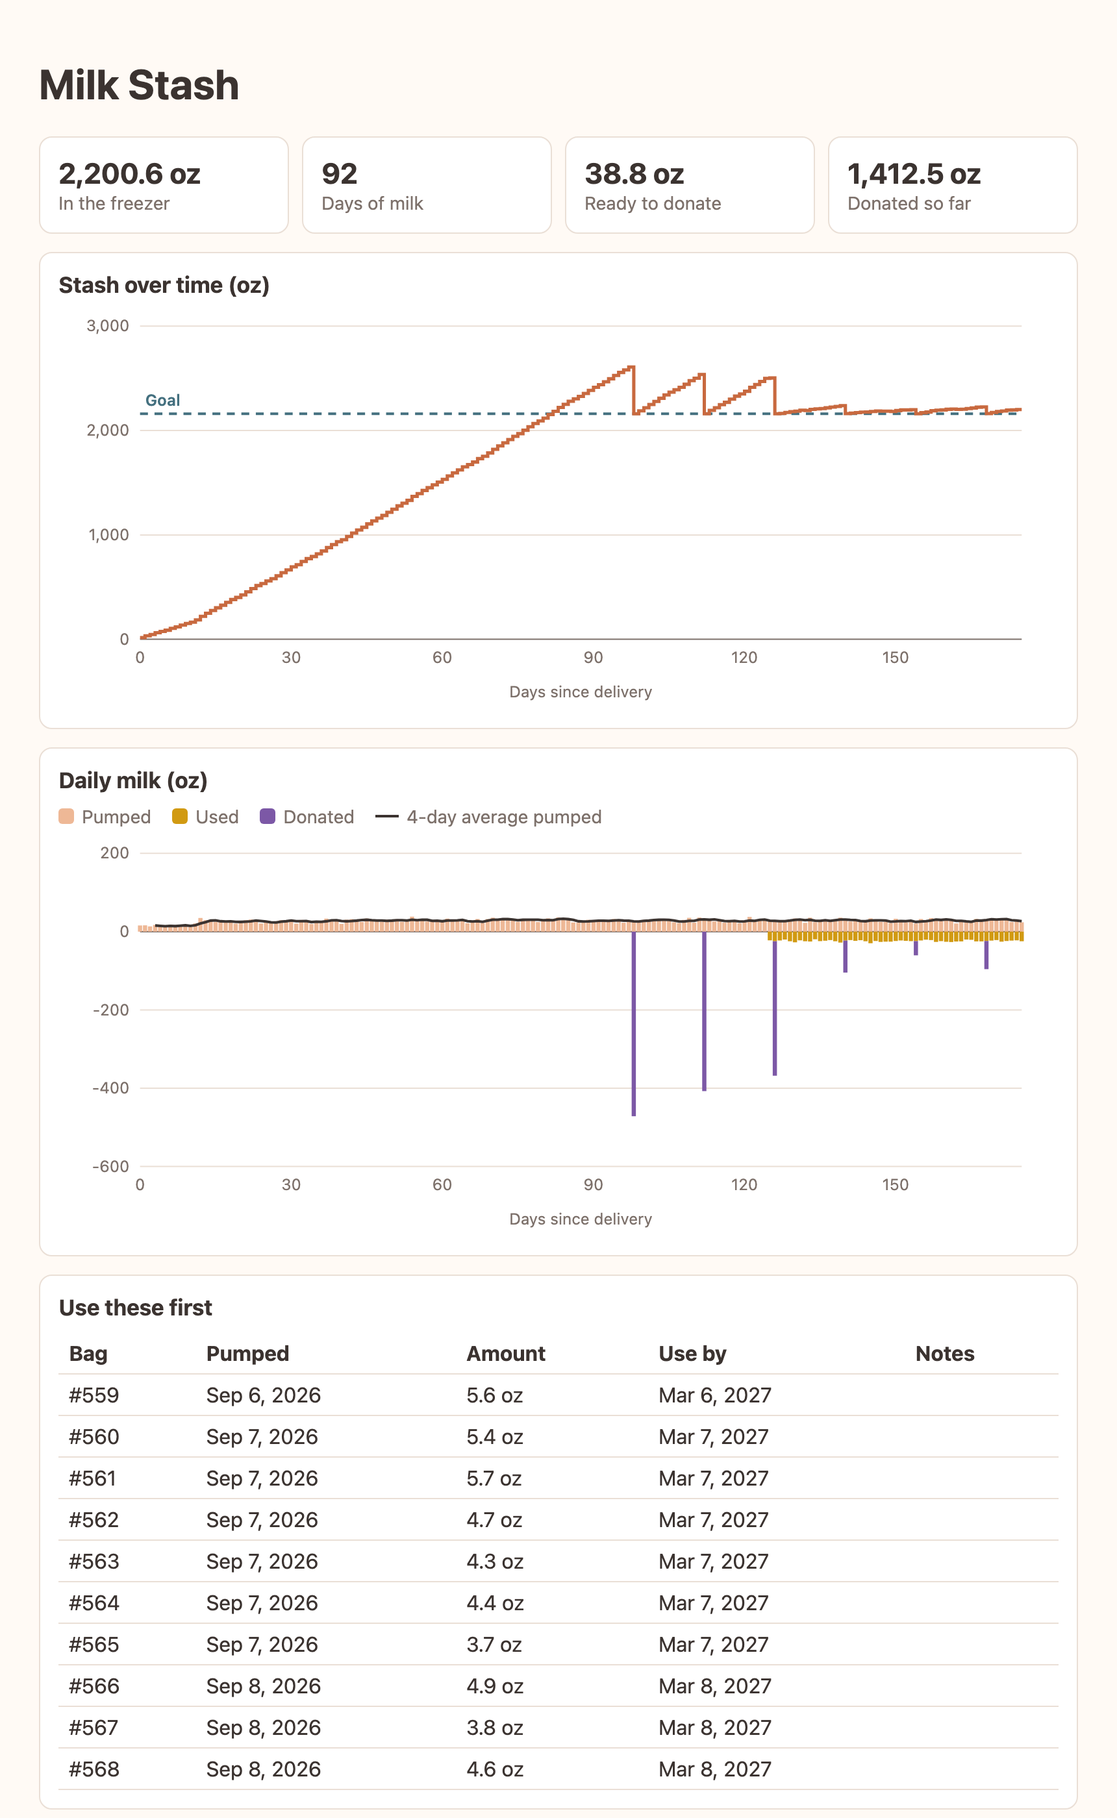
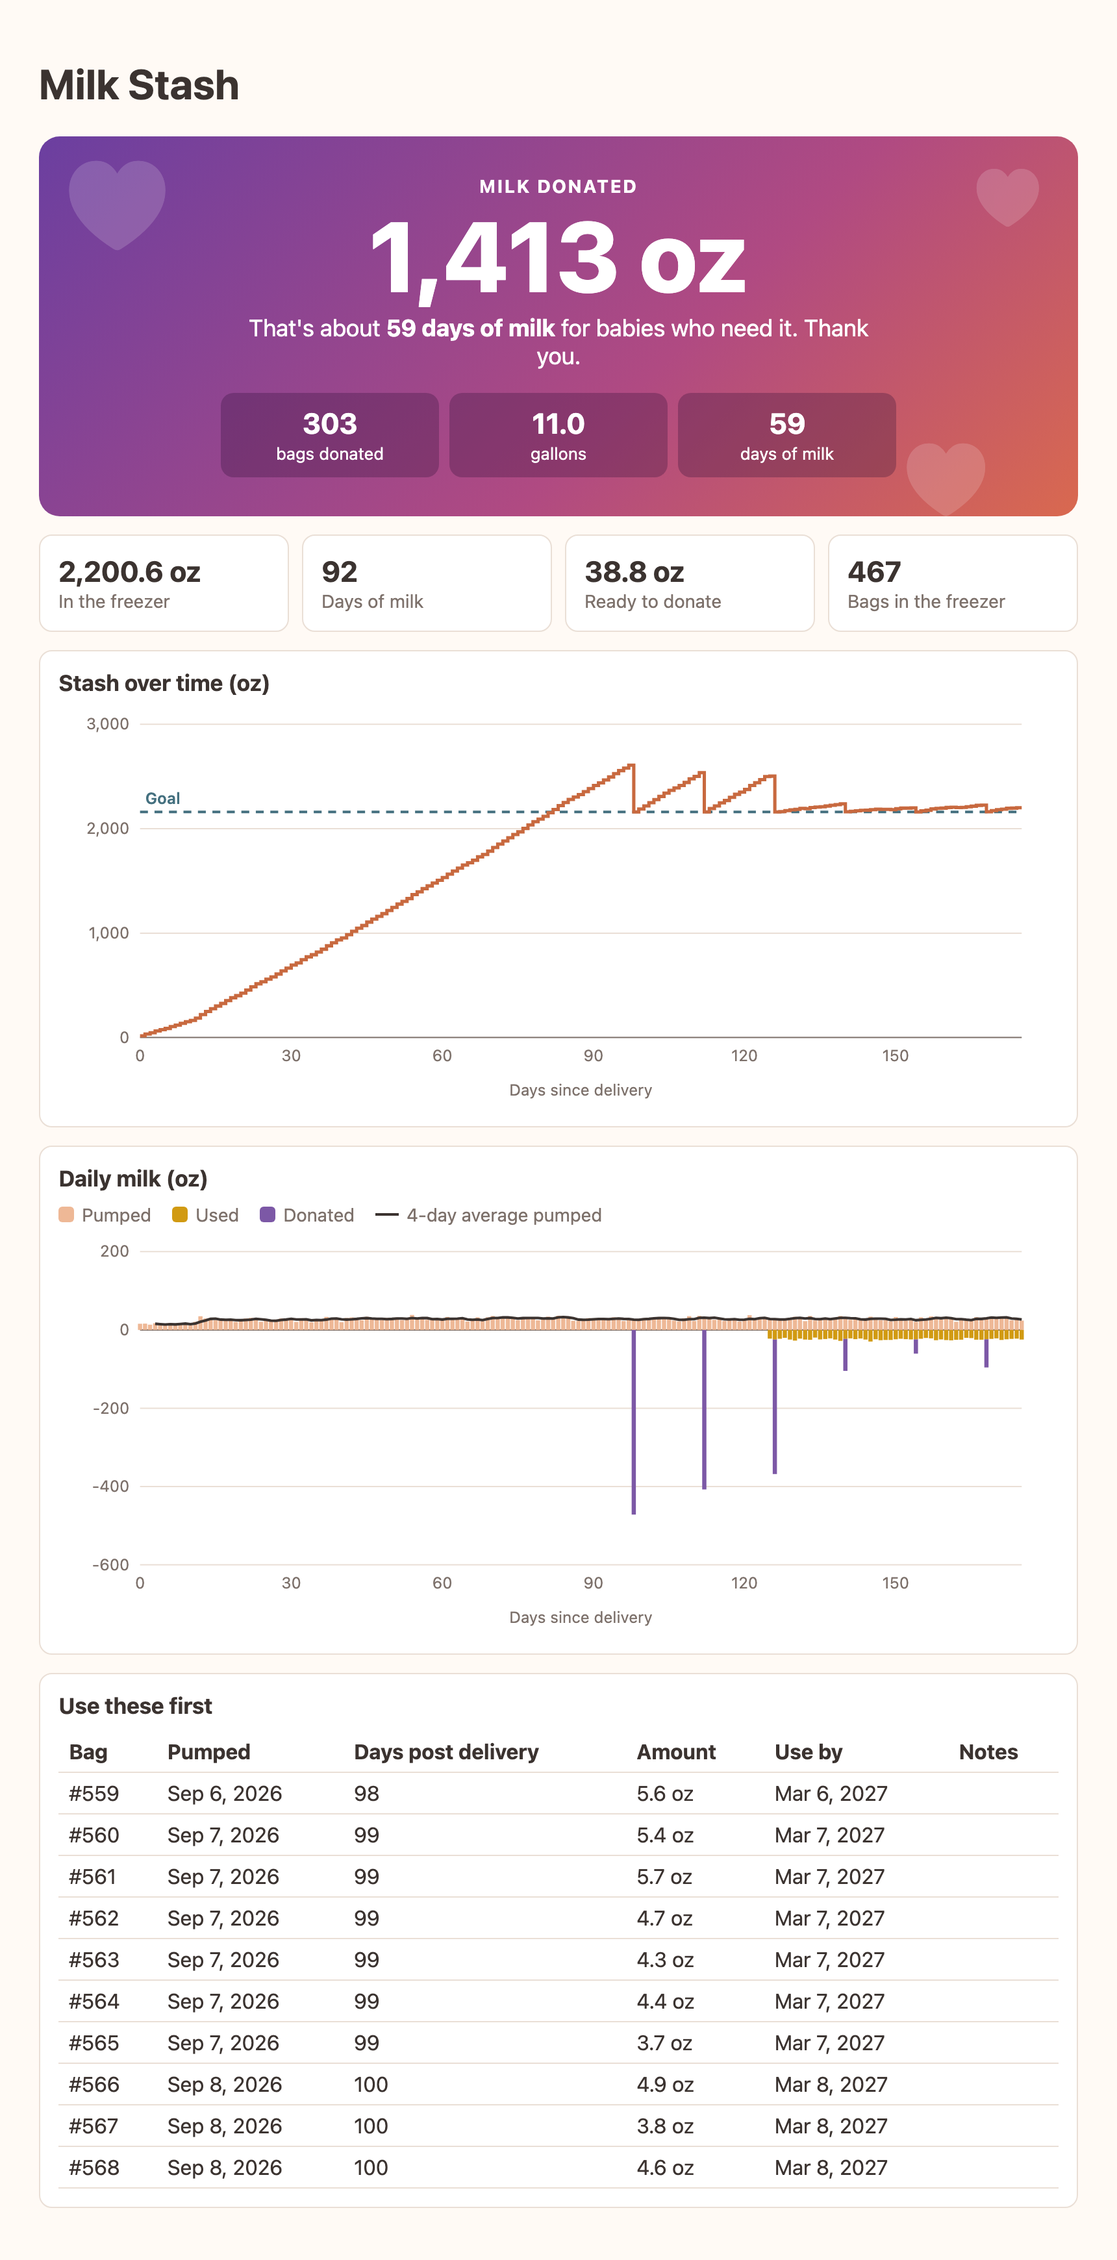
Add age matching, donation celebration, and Airtable import
Shows days post delivery on every bag and adds a match command.
Makes the donated total the centerpiece of the report. Adds safe
re-import from the Airtable template and uses net oz when a log
subtracts bag weight.

diff --git a/milkstash.py b/milkstash.py
@@ -18,6 +18,7 @@ import math
 import os
 import random
 import re
+import shutil
 import sys
 import tempfile
 import webbrowser
@@ -98,7 +99,7 @@ def save_bags(bags):
             writer.writerow({
                 "id": bag["id"],
                 "pumped": bag["pumped"].isoformat(),
-                "volume_ml": f"{bag['volume_ml']:.1f}",
+                "volume_ml": f"{bag['volume_ml']:.2f}",
                 "status": bag["status"],
                 "status_date": (bag["status_date"].isoformat()
                                 if bag["status_date"] else ""),
@@ -214,12 +215,84 @@ def at_risk(bags, settings, today=None):
 
 # ---------------------------------------------------------------- commands
 
+def days_post_delivery(bag, settings):
+    """How many days after delivery this milk was pumped, if we know the birthday."""
+    birth = settings.get("birth_date")
+    return (bag["pumped"] - date.fromisoformat(birth)).days if birth else None
+
+
+def day_label(bag, settings):
+    day = days_post_delivery(bag, settings)
+    return "-" if day is None else str(day)
+
+
 def show_bags(bags, settings):
-    print(f"  {'Bag':>5}  {'Pumped':<13} {'Amount':>10}  {'Use by':<13} Notes")
+    print(f"  {'Bag':>5}  {'Pumped':<13} {'Day':>5} {'Amount':>10}  {'Use by':<13} Notes")
     for bag in bags:
         print(f"  {bag['id']:>5}  {nice(bag['pumped']):<13} "
+              f"{day_label(bag, settings):>5} "
               f"{fmt(bag['volume_ml'], settings):>10}  "
               f"{nice(use_by(bag, settings)):<13} {bag['notes']}")
+
+
+def donation_stats(bags, settings):
+    donated = [b for b in bags if b["status"] == "donated"]
+    ml = sum(b["volume_ml"] for b in donated)
+    return {"bags": len(donated), "ml": ml, "days": ml / daily_ml(settings)}
+
+
+def whole_amount(ml, settings):
+    if settings["unit"] == "ml":
+        return f"{ml:,.0f} ml"
+    return f"{ml / ML_PER_OZ:,.0f} oz"
+
+
+def big_measure(ml, settings):
+    if settings["unit"] == "ml":
+        return f"{ml / 1000:,.1f}", "liters"
+    return f"{ml / ML_PER_OZ / 128:,.1f}", "gallons"
+
+
+def print_celebration(bags, settings):
+    stats = donation_stats(bags, settings)
+    if not stats["bags"]:
+        return
+    amount, name = big_measure(stats["ml"], settings)
+    print("  " + "* " * 21)
+    print(f"  THANK YOU! You've donated {whole_amount(stats['ml'], settings)} of milk.")
+    print(f"  That's {stats['bags']} bags and {amount} {name}, or about "
+          f"{stats['days']:.0f} days of milk")
+    print("  for babies who need it.")
+    print("  " + "* " * 21)
+    print()
+
+
+def cmd_match(args):
+    """Find the bags pumped closest to a baby's age."""
+    settings, bags = load_settings(), load_bags()
+    birth = settings.get("birth_date")
+    if not birth:
+        raise ValueError("Add your baby's birthday first: "
+                         "settings --birth-date 3/14/2026")
+    age = args.age
+    if age is None:
+        age = (date.today() - date.fromisoformat(birth)).days
+    if age < 0:
+        raise ValueError("The baby's age can't be negative.")
+    good = good_bags(bags, settings)
+    close = [b for b in good
+             if abs(days_post_delivery(b, settings) - age) <= args.within]
+    close.sort(key=lambda b: (abs(days_post_delivery(b, settings) - age),
+                              b["pumped"], b["id"]))
+    if not close:
+        print(f"No in-date bags were pumped within {args.within} days of day {age}.")
+        return
+    print(f"Closest in-date bags for a baby {age} days old:\n")
+    shown = close[:args.limit]
+    show_bags(shown, settings)
+    total = sum(b["volume_ml"] for b in close)
+    print(f"\n  Showing {len(shown)} of {len(close)} bags within {args.within} days "
+          f"({fmt(total, settings)} in all).")
 
 
 def cmd_status(_args=None):
@@ -248,6 +321,7 @@ def cmd_status(_args=None):
     plan = donation_plan(bags, settings, today)
 
     print()
+    print_celebration(bags, settings)
     if expired:
         print(f"  ! {len(expired)} bags are past their use-by date. "
               "See them with: list --expired")
@@ -335,6 +409,8 @@ def cmd_donate(args):
                 print("No changes made.")
                 return
     change_status(ids, "donated", parse_date(args.date), "Donated")
+    print()
+    print_celebration(load_bags(), load_settings())
 
 
 def cmd_toss(args):
@@ -401,12 +477,18 @@ def cmd_settings(args):
 
 
 def cmd_import(args):
+    if args.append and args.replace:
+        raise ValueError("Choose either --append or --replace, not both.")
     bags = load_bags()
-    if bags and not args.append:
-        raise ValueError("You already have bags saved. To add this file to "
-                         "them anyway, run import again with --append.")
+    if bags and not (args.append or args.replace):
+        raise ValueError("You already have bags saved. Use --replace to update "
+                         "them from this file (a backup is kept), or --append "
+                         "to add to them.")
+    if args.replace:
+        bags = []
     used_ids = {b["id"] for b in bags}
     added = skipped = 0
+    births = {}
     with open(args.file, newline="", encoding="utf-8-sig") as handle:
         reader = csv.DictReader(handle)
         columns = {re.sub(r"[^a-z]", "", (c or "").lower()): c
@@ -417,26 +499,39 @@ def cmd_import(args):
         if not date_col or not (ml_col or oz_col):
             raise ValueError("The file needs a Date column and a "
                              "'Volume (ml)' or 'Volume (oz)' column.")
-        flag = lambda row, name: bool((row.get(columns.get(name, ""), "")
-                                       or "").strip())
+        days_col = columns.get("dayspostdelivery")
+        cell = lambda row, name: (row.get(columns.get(name, ""), "") or "").strip()
+        left_on = lambda row, name, pumped: (parse_date(cell(row, name))
+                                             if cell(row, name) else pumped)
         for row in reader:
+            if not (row.get(date_col) or "").strip():
+                skipped += any((v or "").strip() for v in row.values()
+                               if isinstance(v, str))
+                continue
             try:
                 pumped = parse_date(row[date_col])
-                if ml_col and (row.get(ml_col) or "").strip():
-                    volume = float(row[ml_col])
-                else:
+                # Prefer oz: spreadsheets often subtract the bag's weight there.
+                if oz_col and (row.get(oz_col) or "").strip():
                     volume = float(row[oz_col]) * ML_PER_OZ
-            except (ValueError, TypeError):
+                else:
+                    volume = float(row[ml_col])
+                if not math.isfinite(volume) or volume <= 0:
+                    raise ValueError
+            except (ValueError, TypeError, KeyError):
                 skipped += 1
                 continue
+            day_text = (row.get(days_col) or "").strip() if days_col else ""
+            if re.fullmatch(r"-?\d+", day_text):
+                born = pumped - timedelta(days=int(day_text))
+                births[born] = births.get(born, 0) + 1
             status, when = "stored", None
-            if flag(row, "donated"):
-                status = "donated"
-                raw = row.get(columns.get("donationdate", ""), "")
-                when = parse_date(raw) if (raw or "").strip() else pumped
-            elif flag(row, "used"):
-                status, when = "used", pumped
-            label = (row.get(columns.get("name", ""), "") or "").strip()
+            if cell(row, "donated"):
+                status, when = "donated", left_on(row, "donationdate", pumped)
+            elif cell(row, "used"):
+                status, when = "used", left_on(row, "useddate", pumped)
+            elif cell(row, "tossed"):
+                status, when = "discarded", left_on(row, "tosseddate", pumped)
+            label = cell(row, "name") or cell(row, "bag")
             bag_id = int(label) if label.isdigit() else 0
             if not bag_id or bag_id in used_ids:
                 bag_id = max(used_ids, default=0) + 1
@@ -446,9 +541,20 @@ def cmd_import(args):
             bags.append({"id": bag_id, "pumped": pumped, "volume_ml": volume,
                          "status": status, "status_date": when, "notes": notes})
             added += 1
+    if not added:
+        raise ValueError("I couldn't find any bags in that file, so nothing changed.")
+    stash = home() / "stash.csv"
+    if args.replace and stash.exists():
+        shutil.copy2(stash, home() / "stash.backup.csv")
     save_bags(bags)
     print(f"Imported {added} bags." +
           (f" Skipped {skipped} rows I couldn't read." if skipped else ""))
+    settings = load_settings()
+    if births and not settings.get("birth_date"):
+        settings["birth_date"] = max(births, key=births.get).isoformat()
+        save_settings(settings)
+        print("Set your baby's birthday from the file: "
+              f"{nice(date.fromisoformat(settings['birth_date']))}.")
 
 
 def history(bags, settings):
@@ -616,20 +722,37 @@ def cmd_report(args):
         raise ValueError("Add a bag first, then I can draw your report.")
     good = good_bags(bags, settings)
     total = sum(b["volume_ml"] for b in good)
-    donated = sum(b["volume_ml"] for b in bags if b["status"] == "donated")
+    stats = donation_stats(bags, settings)
     plan = donation_plan(bags, settings)
+    hero = ""
+    if stats["bags"]:
+        amount, measure = big_measure(stats["ml"], settings)
+        hero = (
+            '<section class=hero><span class="h1" aria-hidden=true>&hearts;</span>'
+            '<span class="h2" aria-hidden=true>&hearts;</span>'
+            '<span class="h3" aria-hidden=true>&hearts;</span>'
+            '<div class=kick>Milk donated</div>'
+            f'<div class=big>{whole_amount(stats["ml"], settings)}</div>'
+            f'<p>That\'s about <b>{stats["days"]:,.0f} days of milk</b> for babies '
+            'who need it. Thank you.</p><div class=wins>'
+            f'<div><b>{stats["bags"]:,}</b><span>bags donated</span></div>'
+            f'<div><b>{amount}</b><span>{measure}</span></div>'
+            f'<div><b>{stats["days"]:,.0f}</b><span>days of milk</span></div>'
+            '</div></section>')
     rows = "".join(
         f"<tr><td>#{b['id']}</td><td>{nice(b['pumped'])}</td>"
+        f"<td>{day_label(b, settings)}</td>"
         f"<td>{fmt(b['volume_ml'], settings)}</td>"
         f"<td>{nice(use_by(b, settings))}</td>"
         f"<td>{html.escape(b['notes'])}</td></tr>" for b in good[:10])
-    table = ("<table><tr><th>Bag<th>Pumped<th>Amount<th>Use by<th>Notes</tr>"
+    table = ("<table><tr><th>Bag<th>Pumped<th>Days post delivery<th>Amount"
+             "<th>Use by<th>Notes</tr>"
              f"{rows}</table>" if rows else
              "<p>There are no in-date bags in the freezer right now.</p>")
     tiles = [("In the freezer", fmt(total, settings)),
              ("Days of milk", f"{total / daily_ml(settings):.0f}"),
              ("Ready to donate", fmt(sum(b["volume_ml"] for b in plan), settings)),
-             ("Donated so far", fmt(donated, settings))]
+             ("Bags in the freezer", f"{len(good):,}")]
     tile_html = "".join(f"<div class=tile><b>{v}</b><span>{k}</span></div>"
                         for k, v in tiles)
     page = f"""<!doctype html><html lang=en><meta charset=utf-8>
@@ -647,9 +770,13 @@ body{{margin:0 auto;max-width:800px;padding:24px 16px;background:var(--bg);color
 rect.pumped{{fill:var(--pumped)}}rect.used{{fill:var(--used)}}rect.donated{{fill:var(--donated)}}rect.discarded{{fill:var(--tossed)}}
 .legend{{display:flex;flex-wrap:wrap;gap:6px 16px;margin-bottom:8px;color:var(--soft);font-size:14px}}.legend span{{display:inline-flex;align-items:center;gap:6px}}
 .legend i{{width:12px;height:12px;border-radius:3px}}i.pumped{{background:var(--pumped)}}i.used{{background:var(--used)}}i.donated{{background:var(--donated)}}i.discarded{{background:var(--tossed)}}.legend i.avgkey{{height:2px;width:18px;border-radius:0;background:var(--ink)}}
+.hero{{position:relative;overflow:hidden;margin-bottom:14px;padding:30px 24px;border-radius:16px;text-align:center;color:#fff;background:linear-gradient(135deg,#6b3fa0,#b04a82 60%,#d9694f)}}
+.hero>*{{position:relative}}.hero .kick{{font-size:14px;font-weight:700;letter-spacing:.09em;text-transform:uppercase}}.hero .big{{font-size:clamp(46px,12vw,76px);font-weight:800;line-height:1.08;margin:4px 0}}.hero p{{margin:0 auto 18px;max-width:480px;font-size:18px}}
+.wins{{display:grid;grid-template-columns:repeat(3,1fr);gap:8px;max-width:520px;margin:auto}}.wins div{{padding:10px 4px;border-radius:10px;background:rgba(40,12,50,.28)}}.wins b{{display:block;font-size:22px}}.wins span{{font-size:13px}}
+.hero .h1,.hero .h2,.hero .h3{{position:absolute;color:#fff;opacity:.16;line-height:1}}.h1{{font-size:96px;left:14px;top:2px}}.h2{{font-size:62px;right:24px;top:14px}}.h3{{font-size:78px;right:8%;bottom:-8px}}
 table{{border-collapse:collapse;width:100%}}
 td,th{{padding:6px 8px;text-align:left;border-bottom:1px solid var(--line);white-space:nowrap}}h2{{font-size:17px;margin:0 0 10px}}
-</style><h1>Milk Stash</h1><div class=tiles>{tile_html}</div>
+</style><h1>Milk Stash</h1>{hero}<div class=tiles>{tile_html}</div>
 <div class=card><h2>Stash over time ({settings['unit']})</h2>{chart_svg(history(bags, settings), settings)}</div>
 <div class=card><h2>Daily milk ({settings['unit']})</h2>{daily_legend(bags)}{daily_svg(bags, settings)}</div>
 <div class=card><h2>Use these first</h2>{table}</div>
@@ -713,7 +840,8 @@ def menu():
     while True:
         cmd_status()
         print("  1 Add milk      2 Use a bag     3 Donate extra")
-        print("  4 See bags      5 Open report   6 Settings    q Quit")
+        print("  4 See bags      5 Open report   6 Settings")
+        print("  7 Match to a baby's age         q Quit")
         choice = input("\nWhat would you like to do? ").strip().lower()
         try:
             if choice == "1":
@@ -737,6 +865,9 @@ def menu():
                 current["birth_date"] = parse_birth_date(
                     ask("Baby's birthday (or none)", current.get("birth_date") or "none"))
                 save_settings(current)
+            elif choice == "7":
+                raw = ask("Baby's age in days (Enter for your baby's age today)")
+                cmd_match(ns(age=int(raw) if raw else None, within=14, limit=10))
             elif choice in ("q", "quit", "exit"):
                 return
         except ValueError as error:
@@ -766,6 +897,13 @@ def build_parser():
     p.set_defaults(func=cmd_use)
 
     sub.add_parser("plan", help="see which bags are extra").set_defaults(func=cmd_plan)
+
+    p = sub.add_parser("match", help="find milk pumped closest to a baby's age")
+    p.add_argument("age", nargs="?", type=int,
+                   help="age in days (your baby's age today if left out)")
+    p.add_argument("--within", type=int, default=14, help="days either side")
+    p.add_argument("--limit", type=int, default=10, help="most bags to show")
+    p.set_defaults(func=cmd_match)
 
     p = sub.add_parser("donate", help="mark bags donated (the plan if none given)")
     p.add_argument("ids", nargs="*", type=int)
@@ -804,6 +942,8 @@ def build_parser():
     p.add_argument("file")
     p.add_argument("--append", action="store_true",
                    help="add to the bags you already have")
+    p.add_argument("--replace", action="store_true",
+                   help="update your stash from this file, keeping a backup")
     p.set_defaults(func=cmd_import)
 
     sub.add_parser("demo", help="try it with made-up data").set_defaults(func=cmd_demo)

diff --git a/README.md b/README.md
@@ -50,6 +50,7 @@ The menu does everything, or you can type commands directly:
 | Use the oldest bag | `python3 milkstash.py use` |
 | See which bags are extra | `python3 milkstash.py plan` |
 | Mark the extra bags as donated | `python3 milkstash.py donate` |
+| Find milk for a 120-day-old baby | `python3 milkstash.py match 120` |
 | Throw away bag 12 | `python3 milkstash.py toss 12` |
 | Undo a change to bag 12 | `python3 milkstash.py restore 12` |
 | Make a page with a chart | `python3 milkstash.py report` |
@@ -62,10 +63,11 @@ Run `python3 milkstash.py report` to open a page with your numbers and chart. Th
 
 ![Sample Milk Stash report with summary numbers, a chart of the stash over time against a 90-day goal, a daily milk chart with a 4-day average, and a list of the bags to use first](docs/report.png)
 
-- **Summary numbers** show what's in the freezer, how many days it will last, how much is ready to donate, and how much you've donated so far.
+- **Milk donated** celebrates your total in ounces, bags, gallons, and days of milk for babies who need it. Donating is a big deal, so it gets top billing.
+- **Summary numbers** show what's in the freezer, how many days it will last, and how much is ready to donate.
 - **Stash over time** tracks your supply against your goal, shown as the dashed line. Each sharp drop in this example is a donation that brings the stash back down to the goal.
 - **Daily milk** shows what you pumped each day above the line and what was used, donated, or tossed below it. The dark line is your 4-day pumping average, which makes trends easier to see.
-- **Use these first** lists the 10 oldest in-date bags with their bag numbers and use-by dates.
+- **Use these first** lists the 10 oldest in-date bags with their bag numbers, days post delivery, and use-by dates.
 
 Add your baby's birthday to count both charts in days since delivery. Without it, they show calendar months:
 
@@ -74,6 +76,16 @@ python3 milkstash.py settings --birth-date 3/14/2026
 ```
 
 The report is saved on your computer and works in light or dark mode.
+
+## Match milk to a baby's age
+
+Milk changes as a baby grows, so some families like to give milk pumped around the baby's current age. Once you've set a birthday, every bag shows its **days post delivery**, and `match` finds the closest in-date bags:
+
+```
+python3 milkstash.py match        # closest to your baby's age today
+python3 milkstash.py match 120    # closest to day 120
+python3 milkstash.py match 120 --within 7
+```
 
 ## Set your own goal
 
@@ -94,6 +106,21 @@ python3 milkstash.py settings --target-days 60 --daily-oz 20
 
 Milk Stash adds up your in-date bags and subtracts your goal. It then suggests the oldest whole bags that fit in the extra, so your freshest milk stays home and you never drop below your goal.
 
+## Prefer logging in Airtable?
+
+Airtable is handy for logging from your phone at the freezer. Milk Stash has a free template that feeds straight into the script.
+
+1. Open the [Milk Stash Airtable template](https://airtable.com/appTWPeo4eDgP1huM/shraOW8tDMybrMWl8) and choose **Copy base**. Your copy is private to you.
+2. In your copy, open the **Days Post Delivery** field's formula and replace `BIRTHDAY` with your baby's birthday, written like `2026-03-14`.
+3. Add a row for each bag. Check **Used**, **Donated**, or **Tossed** when it leaves the freezer, and add the date.
+4. When you want your charts, use the view menu to **Download CSV**, then run:
+
+```
+python3 milkstash.py import "Bags-All bags.csv" --replace
+```
+
+Use your downloaded file's name. `--replace` updates Milk Stash to match Airtable and keeps your previous version as `stash.backup.csv`. Treat Airtable as your main record once you start this way, because changes made only in the script are replaced on the next import.
+
 ## Already keeping a spreadsheet?
 
 Export it as a CSV and run:
@@ -102,7 +129,7 @@ Export it as a CSV and run:
 python3 milkstash.py import my-log.csv
 ```
 
-The file needs a `Date` column and a `Volume (ml)` or `Volume (oz)` column. Optional columns are `Name`, `Used`, `Donated`, `Donation date`, and `Special notes`. Spreadsheets rarely record when a bag was used, so imported used bags are counted on the day they were pumped.
+The file needs a `Date` column and a `Volume (ml)` or `Volume (oz)` column. If it has both, Milk Stash uses oz. Optional columns are `Bag`, `Days Post Delivery`, `Used`, `Used date`, `Donated`, `Donation date`, `Tossed`, `Tossed date`, and `Special notes`. A used or tossed bag with no date is counted on the day it was pumped.
 
 ## Where your data lives
 
